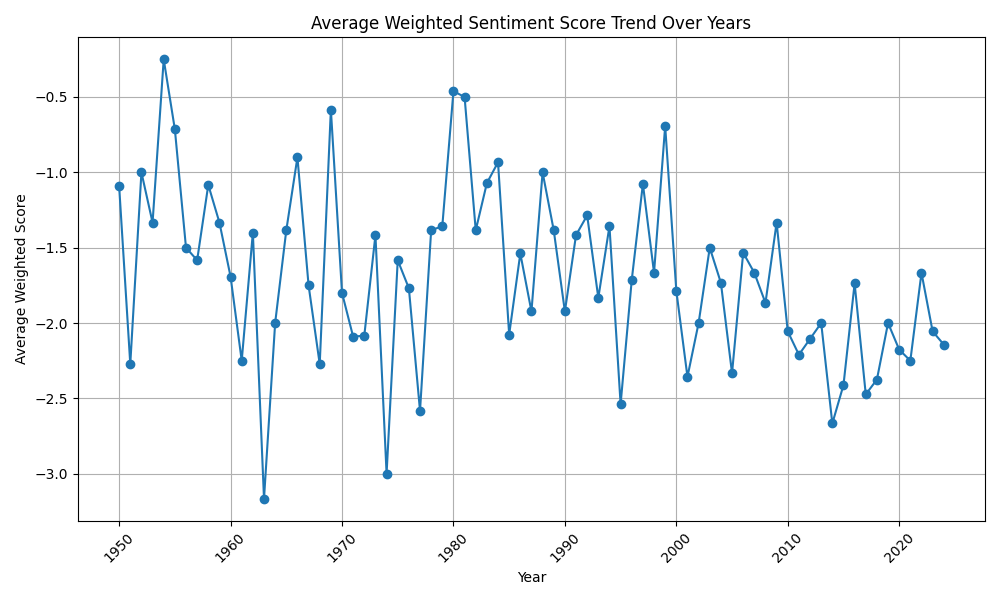
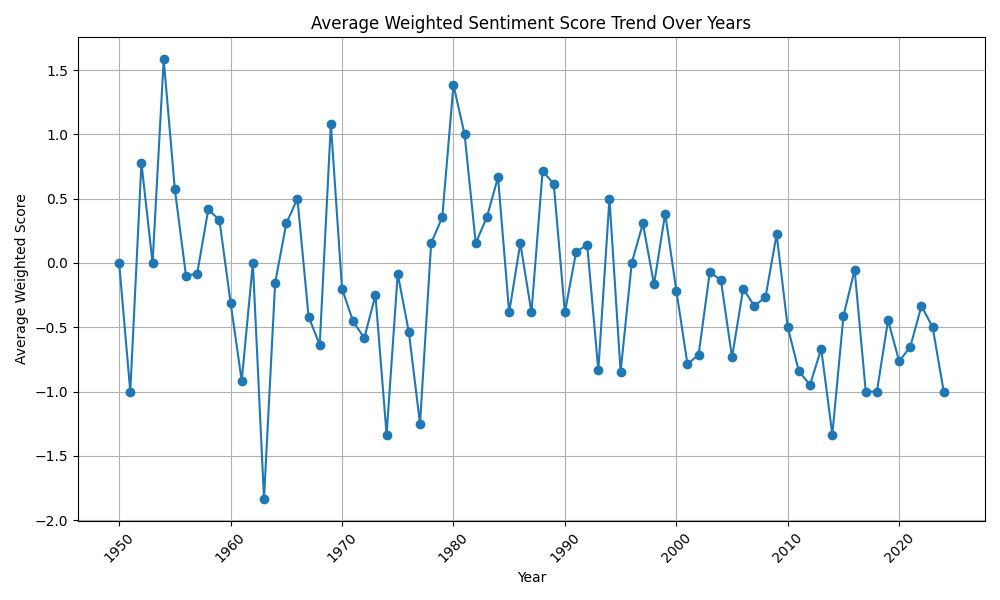
1

diff --git a/coding/RoBERTa_model_plot2.py b/coding/RoBERTa_model_plot2.py
@@ -17,7 +17,6 @@ plt.barh(emotion_counts.index, emotion_counts.values, color='blue')
 plt.xlabel('Count')
 plt.ylabel('Emotion')
 plt.title('Counts of Different Emotions')
-plt.show()
 
 
 weights = {
@@ -30,7 +29,7 @@ weights = {
     'Annoyed': -1,
     'Denial': -4,
     'Official report': 0,
-    'Joking': -1
+    'Joking': 1
 }
 
 data['weighted_score'] = (
@@ -45,7 +44,6 @@ data['weighted_score'] = (
     data['Official report'] * weights['Official report'] +
     data['Joking'] * weights['Joking']
 )
-
 
 data['year']=data2['year']
 # Group by year and calculate the average weighted score for each year
@@ -62,12 +60,4 @@ plt.xticks(rotation=45)
 plt.tight_layout()
 
 # Save the plot to a file
-plt.show()
-
-heatmap_data = data[['Optimistic', 'Thankful', 'Empathetic', 'Pessimistic', 'Anxious', 'Sad', 'Annoyed', 'Denial', 'Official report', 'Joking']]
-plt.figure(figsize=(10, 8))
-sns.heatmap(heatmap_data, annot=True, cmap="Blues", cbar=True, linewidths=0.5, linecolor='grey')
-plt.title('Sentiment Heatmap')
-plt.xlabel('Sentiment')
-plt.ylabel('Movie Index')
 plt.show()
